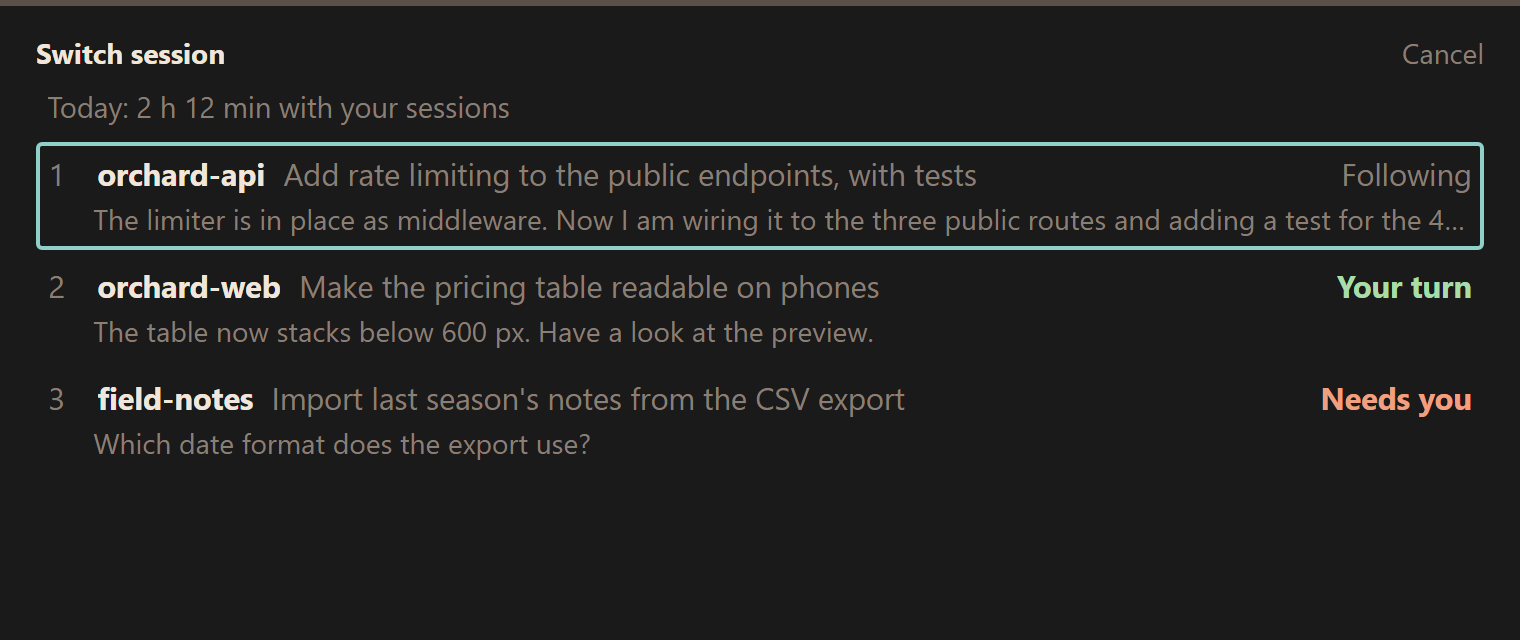
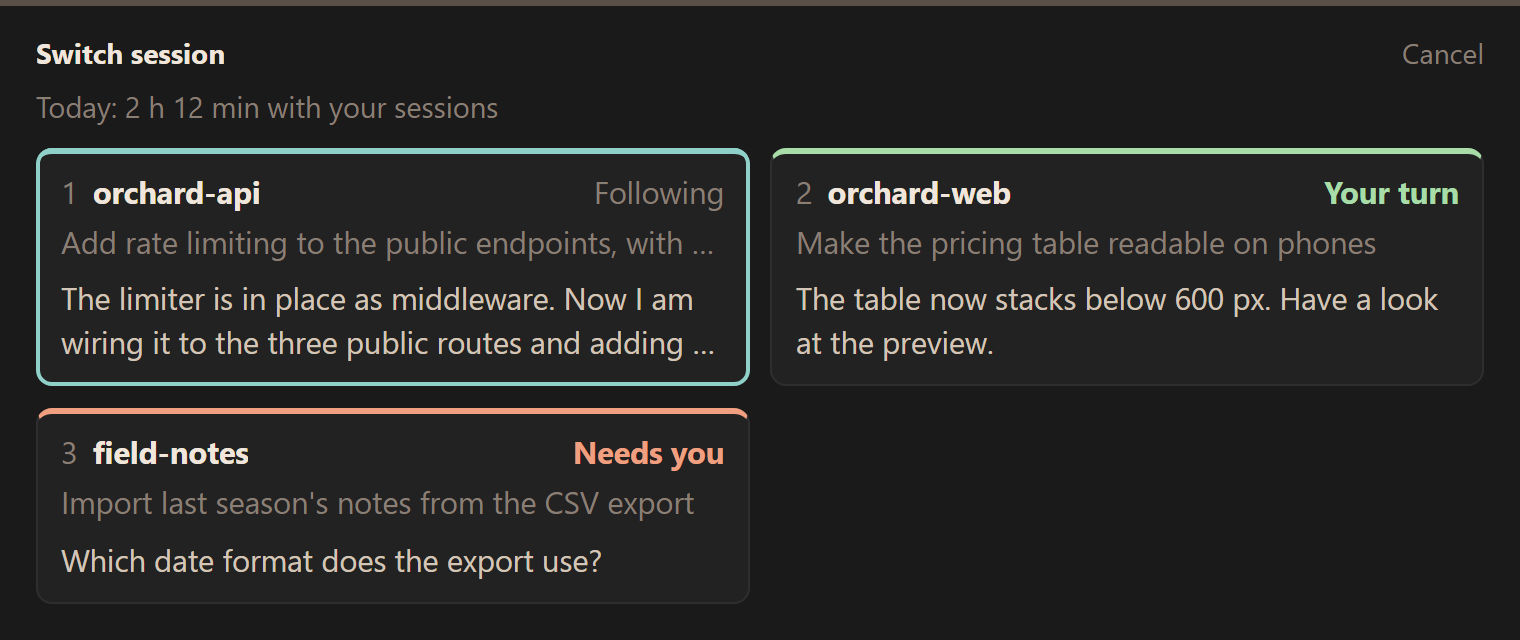
Cards in the switch list
Each session is a card: the project and its state on top, your task,
then Claude's last words, with a top edge in the session's color like
the window's. Two side by side where the window is wide, one column
where it is narrow. The arrows follow the cards as laid out.

diff --git a/web/follow.js b/web/follow.js
@@ -54,7 +54,7 @@
 /* A long run without a pause: a break would fit here (shown once per run). */
 .sg-break { font-size: 0.85em; color: var(--sg-text); }
 /* The minutes of the work period, in the switch list. */
-.sg-today { color: var(--sg-dim); font-size: 0.8em; padding: 0 0.4em; }
+.sg-today { color: var(--sg-dim); font-size: 0.8em; margin-bottom: 0.2em; }
 .sg-root.sg-ended { border-top-color: #5a5048; }
 /* Can't tell: no state color, since softgaze cannot back one. */
 .sg-root.sg-unsure { border-top: 3px dashed var(--sg-dim); }
@@ -74,26 +74,37 @@
 .sg-root .sg-link { color: var(--sg-work); text-decoration: underline; }
 .sg-root .sg-cancel { margin-left: auto; color: var(--sg-dim); font-weight: 400; }
 .sg-root.sg-picking { border-top-color: #5a5048; }
-.sg-root > .sg-list { flex: 1 1 auto; min-height: 0; overflow-y: auto; display: flex; flex-direction: column; gap: 2px; }
-.sg-root .sg-row { display: flex; flex-wrap: wrap; align-items: baseline; gap: 0.15em 0.6em; width: 100%; padding: 0.35em 0.4em; border-radius: 4px;
-  font-size: 0.85em; text-align: left; white-space: nowrap; color: var(--sg-text); }
-.sg-root .sg-row:hover { background: #262626; }
+/* One card per session, side by side where the window is wide enough. */
+.sg-root > .sg-list { flex: 1 1 auto; min-height: 0; overflow-y: auto; display: grid;
+  grid-template-columns: repeat(auto-fill, minmax(min(100%, 16em), 1fr)); gap: 0.6em; align-content: start; }
+.sg-root .sg-row { display: flex; flex-wrap: wrap; align-items: baseline; align-content: flex-start; gap: 0.25em 0.5em;
+  width: 100%; min-width: 0; padding: 0.55em 0.75em 0.7em; border-radius: 8px; font-size: 0.85em; text-align: left;
+  white-space: nowrap; color: var(--sg-text); background: rgba(255, 255, 255, 0.035);
+  border: 1px solid rgba(255, 255, 255, 0.06); border-top: 3px solid var(--sg-card, var(--sg-dim)); }
+.sg-root .sg-row:hover { background: rgba(255, 255, 255, 0.07); }
+/* The card's top edge takes its session's color, like the window's. */
+.sg-c-working { --sg-card: var(--sg-work); }
+.sg-c-needs_you { --sg-card: var(--sg-needs); }
+.sg-c-finished { --sg-card: var(--sg-done); }
+.sg-c-background, .sg-c-ended { --sg-card: #5a5048; }
+.sg-root .sg-row.sg-c-unsure { border-top-style: dashed; }
 /* The list scrolls, so it clips what is drawn outside it: the focus ring
-   goes just inside each row instead. */
-.sg-root .sg-list button:focus-visible { outline-offset: -2px; }
-/* Claude's last words in each session, under its row. */
-.sg-row-last { flex: 1 0 100%; padding-left: 1.6em; box-sizing: border-box; color: var(--sg-dim); font-size: 0.92em;
-  overflow: hidden; text-overflow: ellipsis; }
-.sg-row-key { flex: 0 0 1em; color: var(--sg-dim); font-weight: 400; font-variant-numeric: tabular-nums; }
-.sg-row-project { font-weight: 700; color: var(--sg-bright); overflow: hidden; text-overflow: ellipsis; max-width: 40%; flex: 0 0 auto; }
-.sg-row-task { color: var(--sg-dim); overflow: hidden; text-overflow: ellipsis; min-width: 0; flex: 1 1 auto; }
-.sg-row-state { flex: 0 0 auto; font-weight: 700; color: var(--sg-work); }
+   goes just inside each card instead. */
+.sg-root .sg-list button:focus-visible { outline-offset: -2px; border-radius: 8px; }
+.sg-row-key { flex: 0 0 auto; color: var(--sg-dim); font-weight: 400; font-variant-numeric: tabular-nums; }
+.sg-row-project { font-weight: 700; color: var(--sg-bright); overflow: hidden; text-overflow: ellipsis; min-width: 0; flex: 0 1 auto; }
+.sg-row-state { flex: 0 0 auto; margin-left: auto; font-weight: 700; color: var(--sg-work); }
 .sg-row-state.sg-s-needs_you { color: var(--sg-needs); }
 .sg-row-state.sg-s-finished { color: var(--sg-done); }
 .sg-row-state.sg-s-unsure { color: var(--sg-dim); }
 .sg-current .sg-row-state { color: var(--sg-dim); font-weight: 400; }
-.sg-note { color: var(--sg-dim); font-size: 0.8em; padding: 0.35em 0.4em; }
-.sg-root .sg-more { font-size: 0.8em; padding: 0.35em 0.4em; text-align: left; color: var(--sg-dim); }
+.sg-row-task { flex: 1 0 100%; color: var(--sg-dim); overflow: hidden; text-overflow: ellipsis; }
+/* Claude's last words in each session, at the foot of its card. */
+.sg-row-last { flex: 1 0 100%; margin-top: 0.2em; white-space: normal; overflow: hidden;
+  display: -webkit-box; -webkit-box-orient: vertical; -webkit-line-clamp: 2; }
+.sg-note, .sg-root .sg-more { grid-column: 1 / -1; }
+.sg-note { color: var(--sg-dim); font-size: 0.8em; padding: 0.35em 0; }
+.sg-root .sg-more { font-size: 0.8em; padding: 0.35em 0; text-align: left; color: var(--sg-dim); }
 .sg-root .sg-more:hover { color: var(--sg-bright); }
 .sg-older .sg-row-project { color: var(--sg-text); font-weight: 400; }
 .sg-state { margin-left: auto; font-weight: 700; flex: 0 0 auto; color: var(--sg-work); }
@@ -336,9 +347,10 @@
     const hidden = p.list.length - shown.length;
     const rows = shown.map((s, i) => {
       const cur = s.session_id === followed;
-      return `<button class="sg-row${cur ? ' sg-current' : ''}${inPeriod(s) ? '' : ' sg-older'}" data-sg-act="choose" data-sg-id="${esc(s.session_id)}" title="${esc(s.cwd)}">` +
-        `<span class="sg-row-key" aria-hidden="true">${i < 9 ? i + 1 : ''}</span><span class="sg-row-project">${esc(s.project)}</span><span class="sg-row-task">${esc(s.task || s.prompt)}</span>` +
+      return `<button class="sg-row sg-c-${esc(s.state)}${cur ? ' sg-current' : ''}${inPeriod(s) ? '' : ' sg-older'}" data-sg-act="choose" data-sg-id="${esc(s.session_id)}" title="${esc(s.cwd)}">` +
+        `<span class="sg-row-key" aria-hidden="true">${i < 9 ? i + 1 : ''}</span><span class="sg-row-project">${esc(s.project)}</span>` +
         `<span class="sg-row-state sg-s-${esc(s.state)}">${cur ? 'Following' : esc(TITLES[s.state] || '')}</span>` +
+        `<span class="sg-row-task">${esc(s.task || s.prompt)}</span>` +
         (s.headline ? `<span class="sg-row-last">${esc(lastWords(s.headline))}</span>` : '') + '</button>';
     }).join('');
     let extra = '';
@@ -641,9 +653,25 @@
     }
     // Keys: S opens the switch list, arrows step through the sessions of the
     // work period, Enter goes to VS Code, F toggles full screen, ? shows or
-    // hides the keys; in the list, 1-9 pick a row.
+    // hides the keys; in the list, 1-9 pick a card and the arrows move
+    // between cards.
     // Ctrl+Alt+J goes to VS Code too: the same key brings you back (the
     // extension's Softgaze: Toggle), so one key goes both ways.
+    // The item in the nearest row below (or above) from, closest to it
+    // across; null in the last (or first) row.
+    function rowNeighbor(items, from, down) {
+      const f = from.getBoundingClientRect(), cx = (f.left + f.right) / 2;
+      const boxes = items.map(el => ({ el, b: el.getBoundingClientRect() }))
+        .filter(({ b }) => (down ? b.top > f.top + 1 : b.top < f.top - 1));
+      if (!boxes.length) return null;
+      const top = (down ? Math.min : Math.max)(...boxes.map(({ b }) => b.top));
+      let best = null, gap = Infinity;
+      for (const { el, b } of boxes) {
+        const d = Math.abs((b.left + b.right) / 2 - cx);
+        if (Math.abs(b.top - top) <= 1 && d < gap) { best = el; gap = d; }
+      }
+      return best;
+    }
     function onKey(e) {
       if (e.ctrlKey && e.altKey && !e.metaKey && !e.shiftKey && (e.code === 'KeyJ' || e.key.toLowerCase() === 'j')) {
         if (locked) { e.preventDefault(); goToEditor(); }
@@ -658,12 +686,18 @@
           if (row) { e.preventDefault(); closePicker(row.dataset.sgId); }
           return;
         }
-        if (e.key === 'ArrowDown' || e.key === 'ArrowUp') {
+        // The arrows follow the cards as laid out: Left and Right go to the
+        // previous and next card, Up and Down to the nearest card in the
+        // row above or below ("N more" is the last row).
+        const dir = { ArrowLeft: -1, ArrowRight: 1, ArrowUp: -2, ArrowDown: 2 }[e.key];
+        if (dir) {
           e.preventDefault();
           const items = [...container.querySelectorAll('.sg-row, .sg-more')];
-          let i = items.indexOf(doc.activeElement);
-          i = e.key === 'ArrowDown' ? Math.min(items.length - 1, i + 1) : Math.max(0, i - 1);
-          if (items[i]) items[i].focus();
+          const i = items.indexOf(doc.activeElement);
+          let next = items[0];
+          if (i >= 0 && Math.abs(dir) === 1) next = items[Math.min(items.length - 1, Math.max(0, i + dir))];
+          else if (i >= 0) next = rowNeighbor(items, items[i], dir > 0) || items[i];
+          if (next) next.focus();
         }
         return;
       }

diff --git a/README.md b/README.md
@@ -133,7 +133,7 @@ then on it stays there until you switch.
 | --- | --- |
 | Enter | Go to the session's VS Code window and its Claude Code tab |
 | Ctrl+Alt+J | The same from softgaze; from VS Code, back to softgaze |
-| S | Switch session (in the list, 1-9 picks a row) |
+| S | Switch session (in the list, 1-9 picks a card; the arrows move between cards) |
 | Left / Right | Step through the sessions of the current work period |
 | F | Toggle full screen |
 | ? | Show the keys; ? again or Esc hides them |
